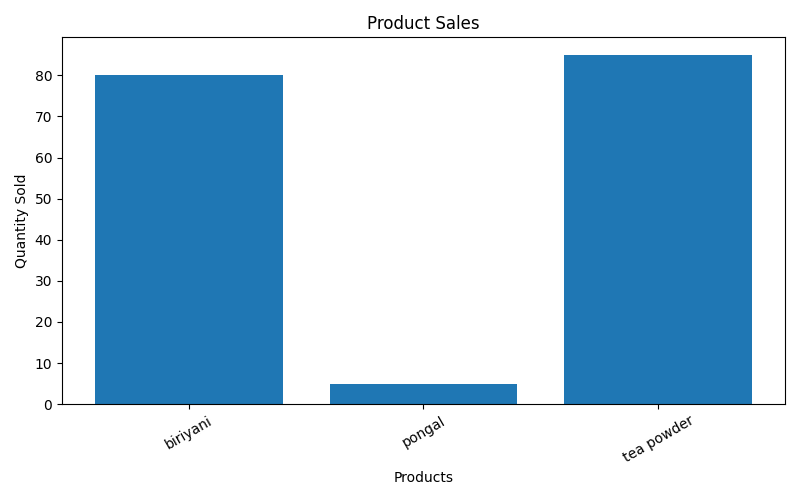
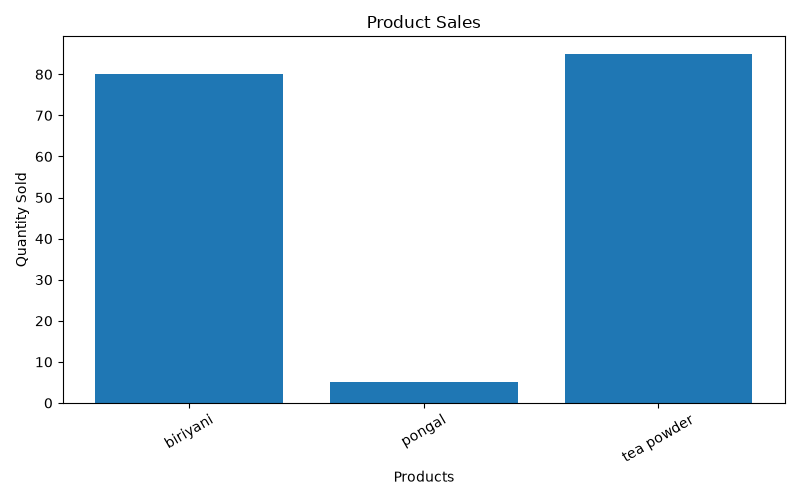
Day 26: Added Database Backup and Restore System

diff --git a/templates/index.html b/templates/index.html
@@ -41,6 +41,7 @@
 <button type="submit">
     Generate Bill
 </button>
+    </form>
 
 <a href="/add_product">
     <button type="button">➕ Add Product</button>
@@ -56,6 +57,14 @@
     <button type="button">📊 Dashboard</button>
 </a>
 <br><br>
+
+<a href="/backup">
+    <button>💾 Backup Database</button>
+</a>
+
+<a href="/restore">
+    <button type="button">🔄 Restore Database</button>
+</a>
 
 <a href="/customers">
     <button type="button">👥 Customers</button>

diff --git a/app.py b/app.py
@@ -4,6 +4,7 @@ from datetime import datetime
 from reportlab.pdfgen import canvas
 import os
 import matplotlib.pyplot as plt
+import shutil
 
 app = Flask(__name__)
 app.config["SQLALCHEMY_DATABASE_URI"] = "sqlite:///billing.db"
@@ -304,6 +305,26 @@ def customer_profile(mobile):
         most_product=most_product,
         total_items=total_items
     )
+@app.route("/backup")
+def backup_database():
+
+    source = "instance/billing.db"
+    destination = "instance/billing_backup.db"
+
+    shutil.copy(source, destination)
+
+    return "✅ Database Backup Created Successfully" 
+    
+@app.route("/restore")
+def restore_database():
+
+    source = "instance/billing_backup.db"
+    destination = "instance/billing.db"
+
+    shutil.copy(source, destination)
+
+    return "✅ Database Restored Successfully"       
+
 
 
 @app.route("/shop-settings", methods=["GET", "POST"])
